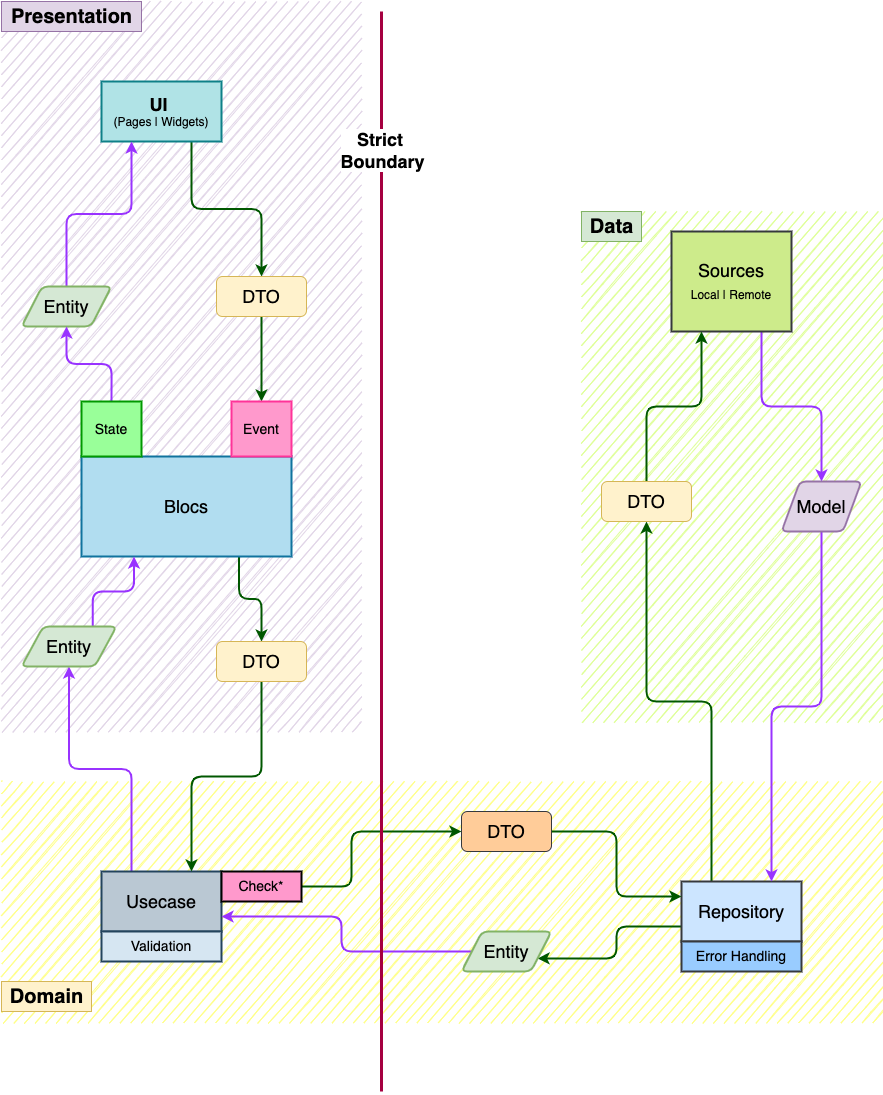
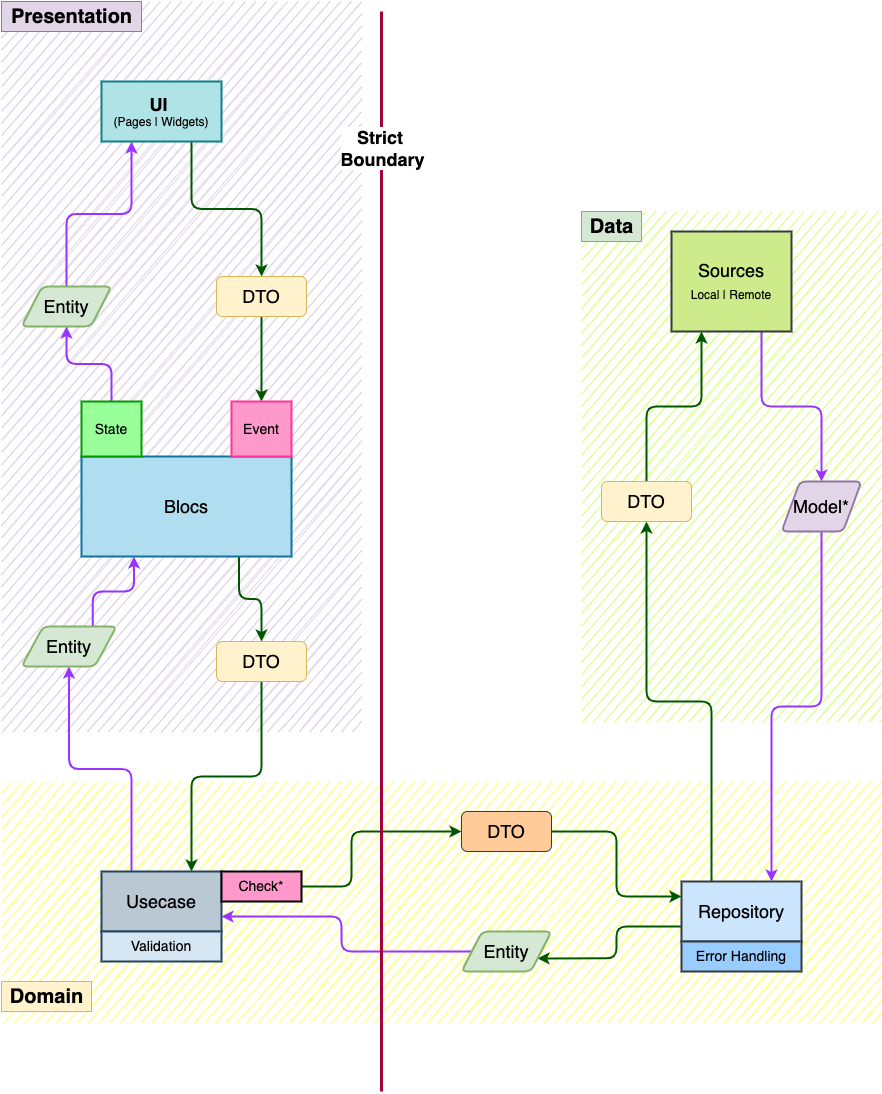
change

diff --git a/README.md b/README.md
@@ -74,6 +74,11 @@ code structure and lint rules.
 
 <hr>
 
+## Note
+
+- \* Models are just an extension of Entities that adds Serialization/Deserialization functionality.
+- \* **For a complex and large project we can use Entities instead of Models by adding Serialization/Deserialization functionality directly into the Entity Class.**
+
 ## Requirements
 
 - ### Dependencies
